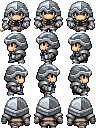
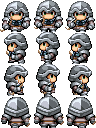
Ranged minions have proper textures

diff --git a/kingslayer/src/images/Images.java b/kingslayer/src/images/Images.java
@@ -54,7 +54,7 @@ public abstract class Images {
     public static final Image RED_SLAYER_IMAGE_SHEET = getImage("slayer_red_sheet.png");
     public static final Image BLUE_SLAYER_IMAGE_SHEET = getImage("slayer_blue_sheet.png");
     public static final Image BLUE_RANGED_IMAGE_SHEET = getImage("minions_ranged_blue.png");
-    public static final Image RED_RANGED_IMAGE_SHEET = getImage("slayer_red_sheet.png"); // TODO
+    public static final Image RED_RANGED_IMAGE_SHEET = getImage("minions_ranged_red.png"); // TODO
     public static final Image BLUE_MELEE_IMAGE_SHEET = getImage("slayer_blue_sheet.png");
     public static final Image RED_MELEE_IMAGE_SHEET = getImage("slayer_red_sheet.png");
     public static final Image BLUE_SIEGE_IMAGE_SHEET = getImage("minions_siege_blue.png");
